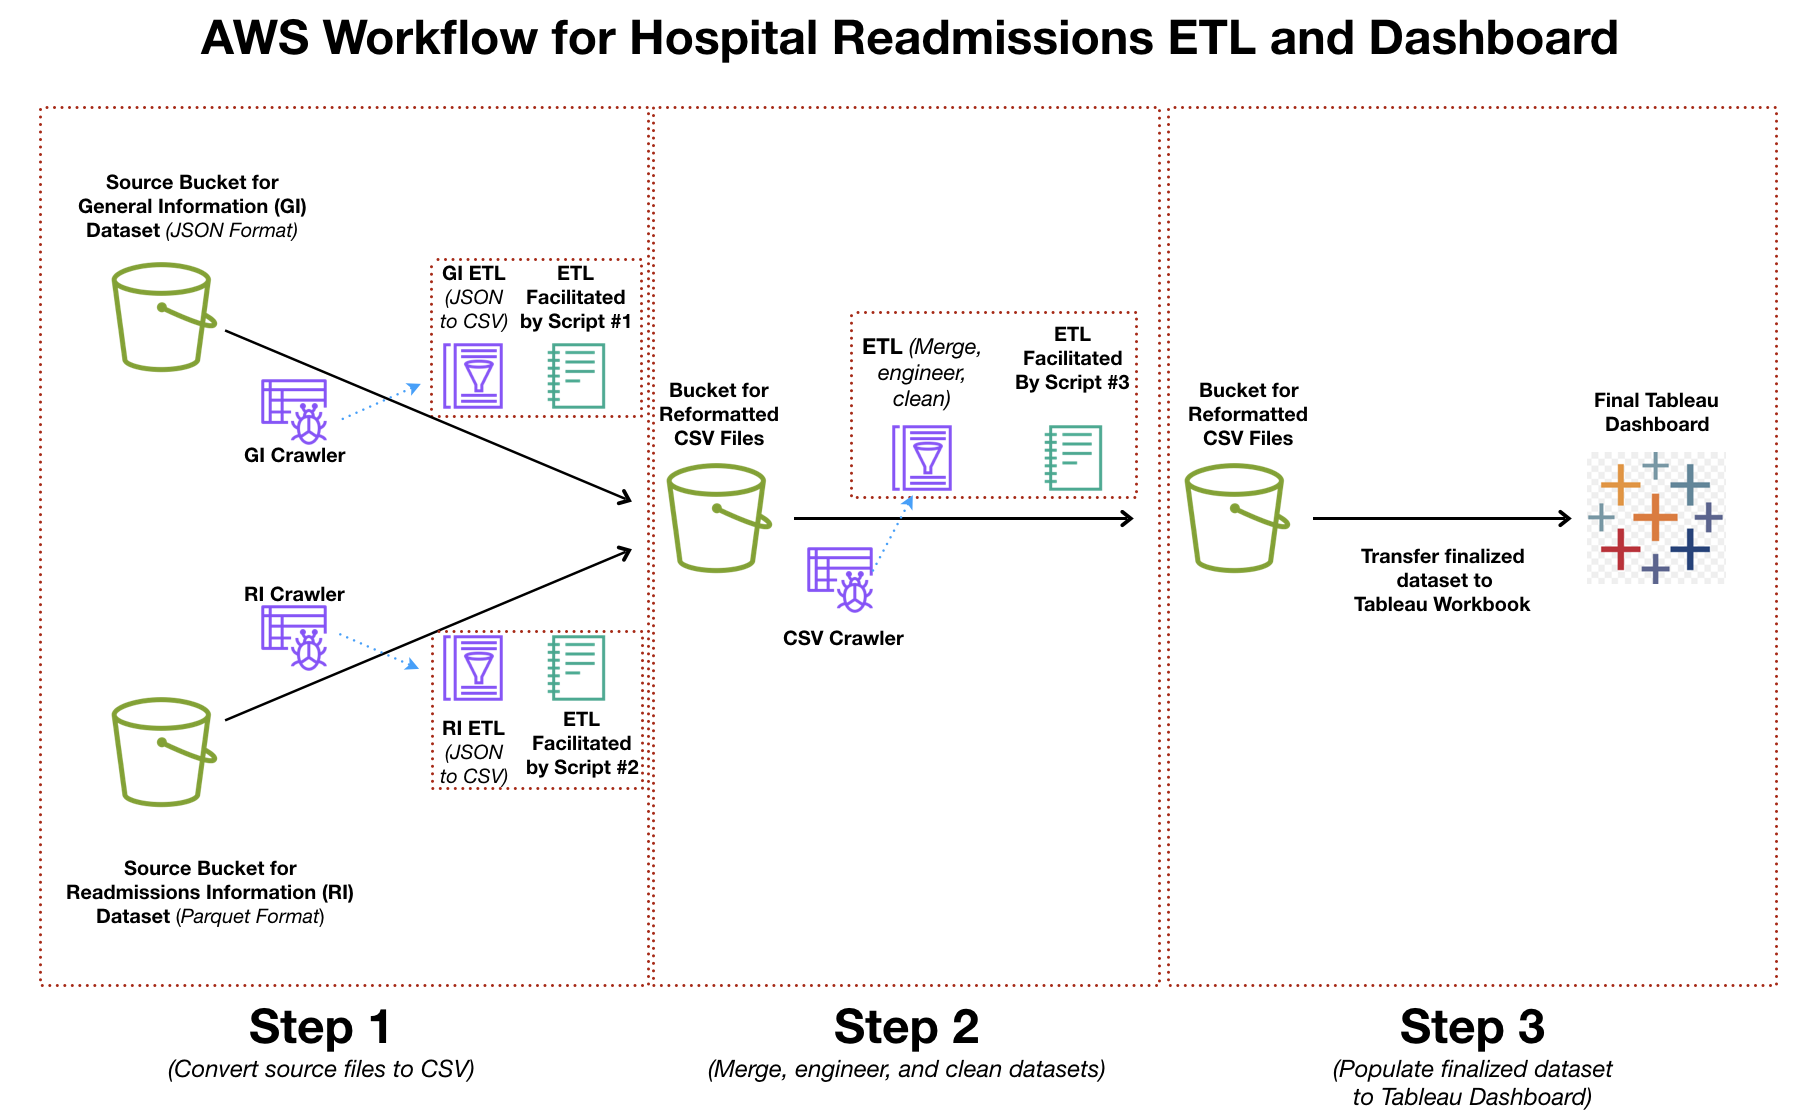
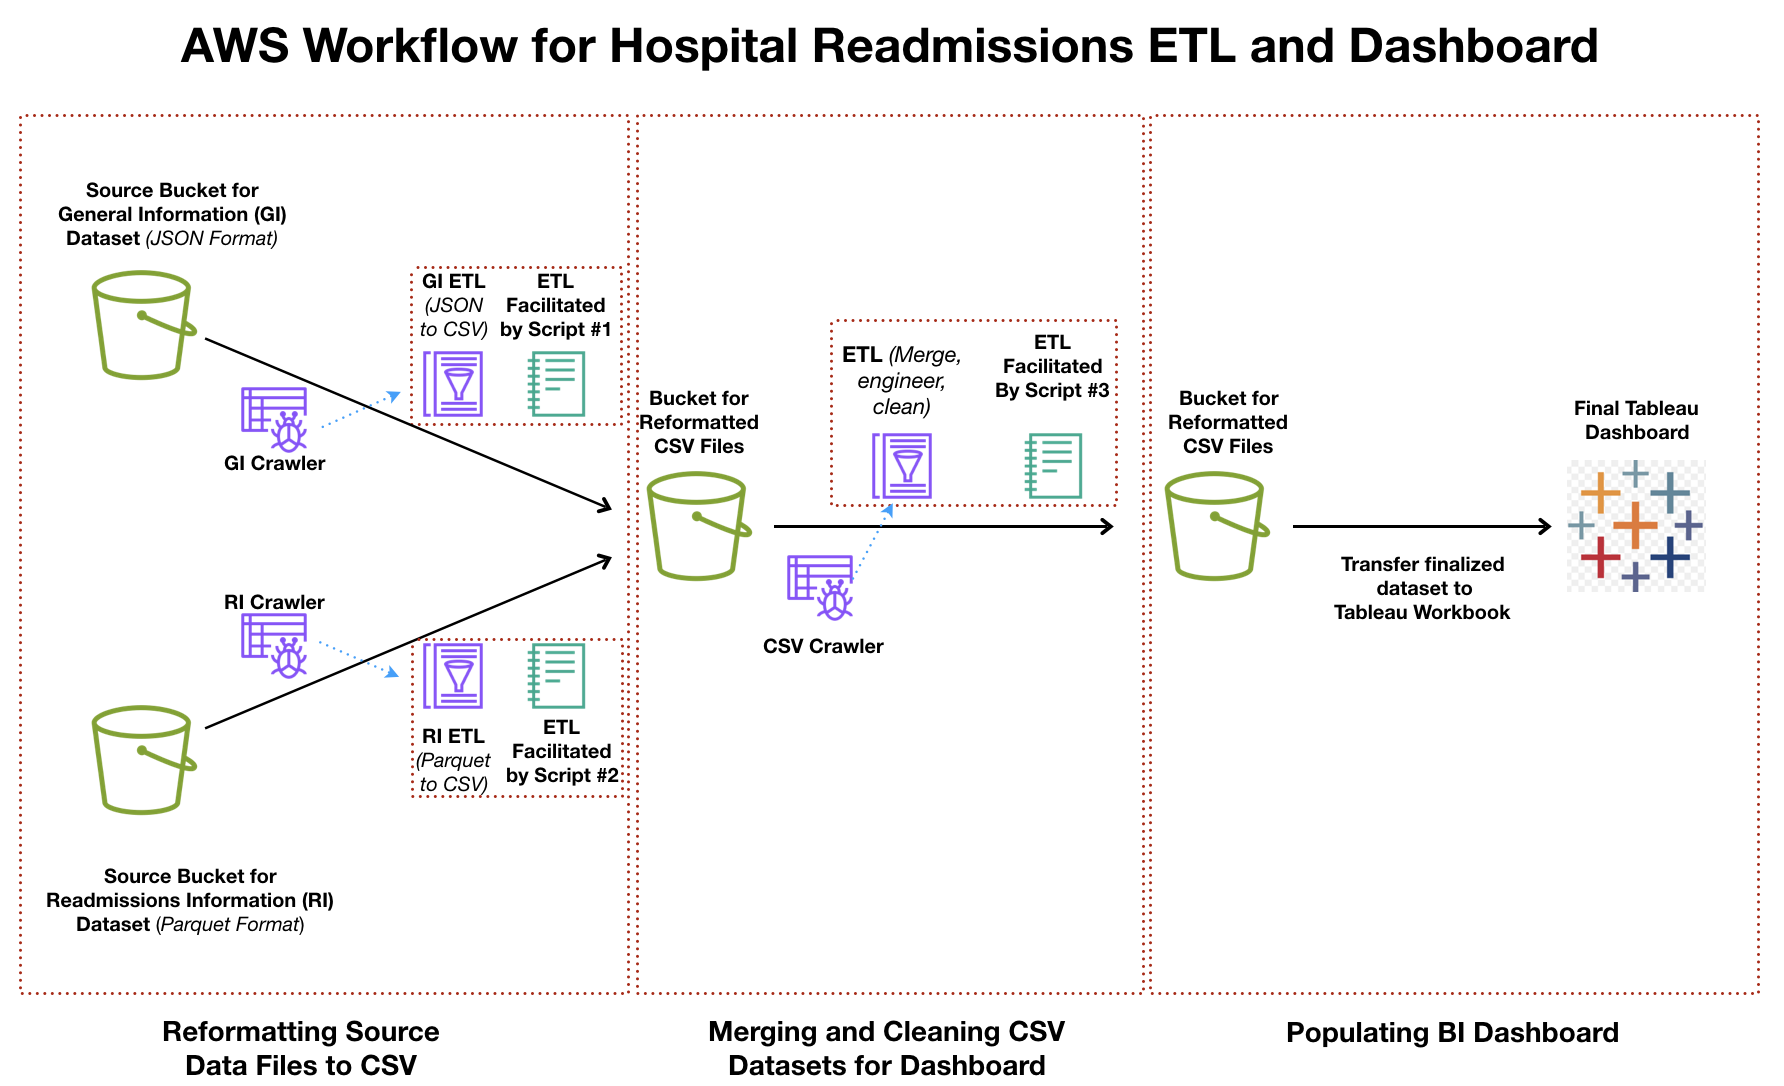
updates to Tableau and minor updates elsewhere

diff --git a/Script_2_readm_parq_to_csv.py b/Script_2_readm_parq_to_csv.py
@@ -1,3 +1,4 @@
+# Importing libraries
 import sys
 from awsglue.transforms import *
 from awsglue.utils import getResolvedOptions
@@ -5,6 +6,7 @@ from pyspark.context import SparkContext
 from awsglue.context import GlueContext
 from awsglue.job import Job
 
+# Defining variables
 args = getResolvedOptions(sys.argv, ["JOB_NAME"])
 sc = SparkContext()
 glueContext = GlueContext(sc)
@@ -12,14 +14,14 @@ spark = glueContext.spark_session
 job = Job(glueContext)
 job.init(args["JOB_NAME"], args)
 
-# Script generated for node AWS Glue Data Catalog
+# Referencing AWS Glue Data Catalog
 AWSGlueDataCatalog_node1704041557520 = glueContext.create_dynamic_frame.from_catalog(
     database="hosp",
     table_name="readm_parqreadmission_parquet",
     transformation_ctx="AWSGlueDataCatalog_node1704041557520",
 )
 
-# Script generated for node Change Schema
+# Defining node Change Schema
 ChangeSchema_node1704041562743 = ApplyMapping.apply(
     frame=AWSGlueDataCatalog_node1704041557520,
     mappings=[
@@ -59,7 +61,7 @@ repartitioned_frame = Repartition.apply(frame=ChangeSchema_node1704041562743, nu
 
 output_filename = "reformatted_readmission_information.csv"
 
-# Script generated for node Amazon S3
+# Exporting transformed file to S3 in CSV
 AmazonS3_node1704041564805 = glueContext.write_dynamic_frame.from_options(
     frame=repartitioned_frame,
     connection_type="s3",

diff --git a/Script_1_gen_info_json_to_csv.py b/Script_1_gen_info_json_to_csv.py
@@ -1,3 +1,4 @@
+# Importing libraries
 import sys
 from awsglue.transforms import *
 from awsglue.utils import getResolvedOptions
@@ -5,6 +6,7 @@ from pyspark.context import SparkContext
 from awsglue.context import GlueContext
 from awsglue.job import Job
 
+# Defining variables
 args = getResolvedOptions(sys.argv, ["JOB_NAME"])
 sc = SparkContext()
 glueContext = GlueContext(sc)
@@ -12,14 +14,14 @@ spark = glueContext.spark_session
 job = Job(glueContext)
 job.init(args["JOB_NAME"], args)
 
-# Script generated for node AWS Glue Data Catalog
+# Referencing AWS Glue Data Catalog
 AWSGlueDataCatalog_node1704035540938 = glueContext.create_dynamic_frame.from_catalog(
     database="hosp",
     table_name="gen_info_jsongen_info_json",
     transformation_ctx="AWSGlueDataCatalog_node1704035540938",
 )
 
-# Script generated for node Change Schema
+# Defining node Change Schema
 ChangeSchema_node1704035547782 = ApplyMapping.apply(
     frame=AWSGlueDataCatalog_node1704035540938,
     mappings=[
@@ -141,7 +143,7 @@ repartitioned_frame = Repartition.apply(frame=ChangeSchema_node1704035547782, nu
 
 output_filename = "reformatted_general_information.csv"
 
-# Script generated for node Amazon S3
+# Exporting transformed file to S3 in CSV
 AmazonS3_node1704035658887 = glueContext.write_dynamic_frame.from_options(
     frame=repartitioned_frame,
     connection_type="s3",

diff --git a/README.md b/README.md
@@ -1,9 +1,8 @@
-# Waterman_Projects
-Data science work in healthcare and other domains
+# Hospital Readmissions ETL and Visualization
 
-Diabetes Predictions (6 files):
+Here is a description of the seven files used:
 
-Script_1_geni_info_json_to_csv.py: Converts source General Information file from JSON to CSV format
+Script_1_gen_info_json_to_csv.py: Converts source General Information file from JSON to CSV format
 
 Script_2_merged_recreated_hosp.py: Converts source Readmissions Information file from Parquet to CSV format
 
@@ -11,7 +10,7 @@ Script_3_readm_parq_to_csv.py: Merges the two source files on "Provider ID", and
    
 Hospital_Readmissions_Executive_Dashboard.twbx: Provides an interactive BI Dashboard displaying KPIs across Hospital categories
 
-ETL Diagram: Provides a visual representation of the workflow
+ETL Diagram.png: Provides a visual representation of the workflow
 
 General_Information_JSON.snappy: Source General Information dataset
 
